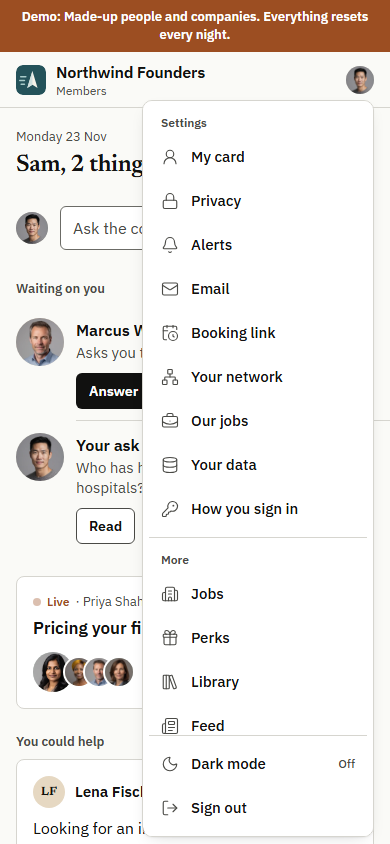
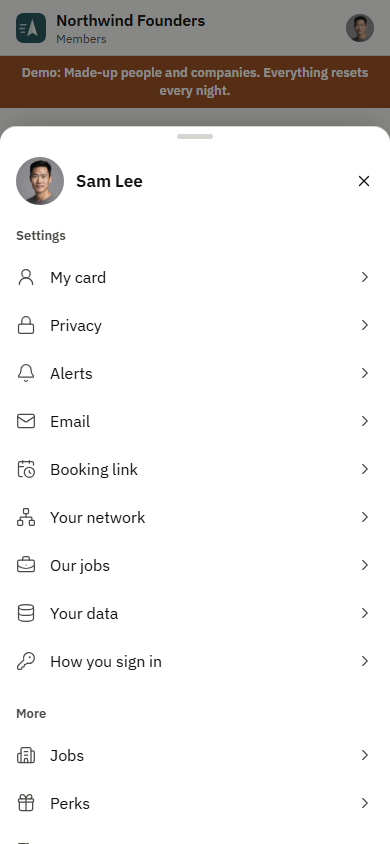
ui-polish part 6: no second status-bar gap under the demo band in the app; tour rebuilt; the verifier's last re-checks

diff --git a/src/modules/voice/components/voice.css b/src/modules/voice/components/voice.css
@@ -63,6 +63,9 @@
 @media (max-width:999.98px){
   .vr-header{position:sticky;top:0;z-index:40;min-height:calc(52px + var(--sat));margin:-16px -16px 4px;padding:var(--sat) 6px 0 4px;background:var(--paper)}
   .vr-header-end{margin-right:0}
+  /* In the app, the demo band above it already clears the status bar (frame.css): no second gap. The room page in the
+     app is short (the room plays in the app's own sheet), so it doesn't scroll under the status bar. */
+  html[data-app]:has(.fh-app .fh-demo-bar) .vr-header{min-height:52px;padding-top:0}
 }
 
 .vr-title-block{margin:8px 0 4px}

diff --git a/.ai/features/ui-polish/reports/part6/verification.md b/.ai/features/ui-polish/reports/part6/verification.md
@@ -6,7 +6,8 @@ preview. Demo people only: Sam Lee (member), Maya Ortiz (admin, host). Chromium 
 1x, viewport-sized. Scripts: `.ai/tmp/verify-p6/` (not committed).
 
 **Overall, first pass: FAIL** (three defects). **Re-check after the repairs (commit 612b2206): PASS. Re-check after
-the rebase onto Part 7's native tab bar (head 67a8e68c): PASS.** All three
+the rebase onto Part 7's native tab bar (head 67a8e68c): PASS. Re-check after Part 2 (head 982ce3e1): PASS (its one
+new minor defect, demo mode in the store app, fixed and re-checked).** All three
 defects and the smaller ones I re-tested are fixed, and nothing new broke. The parts that need a real phone or Part 3
 are still NOT RUN. The rows below are the first pass; "Re-check" at the end replaces rows 1, 8 and 10 and defects 1–5
 and 7.
@@ -119,6 +120,50 @@ Notes:
   one. I didn't re-run 360 and 300 in the app.
 - Inside each tab's page, the site's own tab bar still has `display:grid` under the native bar. The native bar covers it
   exactly (788–844), so nothing shows twice. Whether it should be hidden is Part 7's call.
+
+## Re-check after Part 2 (head 982ce3e1)
+
+Main now has Part 2: the frame, the menu sheet, no phone footer, the demo band under the top bar, and 16 px of top
+padding on the page area. `.next` was rebuilt and `mobile/dist-web` is current. I ran it in the foreground and stopped
+every server and browser. Scripts: `.ai/tmp/verify-p6/recheck3-web.mjs` and `recheck3-app.mjs`.
+
+| Item | Result | Measured | Pictures |
+|---|---|---|---|
+| Check 10, the outline | PASS (an exact match) | Rooms tapped from Today, 390, with the page held back. Outline against the page: title (16,125) 82×34 on both, the line under it (16,166) 358×26 on both, "Live now" (16,212) 358×18 on both, first card (16,238) 358×132 on both, and the rows inside the card at 255 / 281 / 313 on both. Only the button's width differs (112 against 106), with both right edges at 374. I can't reproduce Part 2's "about 34 px" note on this head. 34 px is the demo band's height on wide screens, so the note was probably taken against the old page or with the band in the way. | after-rooms-outline-390 |
+| The web room at 390 | PASS | Plain browser: the demo band is at 0–52 and the room's header at 52–104, so no gap, no overlap and no 4 px overshoot. Rooms 83×44, Leave 64×44, More 44×44. Title at y 112, the line under it at 144, bar 88 px at 756, 4 columns, no tab bar, no community bar, no footer. These are the same numbers as before. With --sat 47 / --sab 34: header 52–151 (99 px), its row at 103, bar 722–810. On a short screen, scrolled, the header stays at y 0 (row at 4 plain, at 51 with --sat 47). There is no `.fh-back` or other "Back" control on the room page, in a plain browser or in the app. | after-room-390, after-room-390-insets |
+| In the app, the room page under the sheet | PASS, except the defect below | With html[data-app] and insets 0: band 0–52, header 52–104, and no stray back button from Part 2's rules. | after-app-mini-roompage-390 |
+| Check 1, quick | PASS | 390: Start a room 106×36 on the title's row, card 358×132 with an 8 px radius, a 17 px/600 title, faces 40/28/28/28, Join 54×36, Room alerts the last row, no footer, no sideways scroll. Tapping a face joins. 1280: 2 cards in 2 columns, 464 px each. | after-rooms-390, after-rooms-1280 |
+| Checks 5 and 8, quick (web preview) | PASS | On Today the mini bar is at 732–788 and the native tab bar at 788–844, so there is no gap. The main control and Leave are 44×44. The avatar menu is now a Sheet: while it is open, html[data-sheet-open] is set and both the mini bar and the native tab bar hide. After Escape, or a tap outside, both come back. Leave from the bar removes it. | after-app-mini-today-390, after-app-mini-menu-390 |
+| Tests | PASS | `pnpm lint` (0 errors, the same old warning), `pnpm typecheck`, and the voice + shell + architecture tests (33 files, 818 tests). |
+
+**New minor defect (demo mode, store app only): a status-bar-sized gap above the room's header.**
+1. Run the store app's web preview in demo mode.
+2. Join a room and minimise it, so the room page shows under the sheet.
+3. On the page's `<html>`, set `--sat: 47px; --sab: 34px` to stand in for a phone's status bar.
+
+Result: the demo band grows to 0–99 because, for an own-header page in the app, it already pads `8px + var(--sat)`. The
+room's header then sits at 99–198 and adds `var(--sat)` again, so its row starts at y 150. That leaves a 47 px blank
+strip between the band and "‹ Rooms" (after-app-roompage-sat47-390). Expected: the header's row sits right under the
+band. It still needs the status-bar padding once it sticks at the top after the band has scrolled away.
+
+The plain browser isn't affected (no band padding there), and neither is a community outside demo mode (no band). One
+possible fix: when the band is present in the app, drop the header's `--sat` padding while it isn't stuck. Another:
+let the band stop carrying `--sat` on own-header pages and let the header carry it, with the band inside the header's
+sticky area or the header's sticky top set to the band's foot.
+
+**Re-check of that defect, with the fix** (voice.css, under 1000 px:
+`html[data-app]:has(.fh-app .fh-demo-bar) .vr-header{min-height:52px;padding-top:0}`; `.next` rebuilt): **PASS.**
+I re-ran the same steps in the web preview: room page after minimising, with --sat 47px on html.
+- 390×844: band 0–99, header 99–151, the "‹ Rooms" row at 103–147, More 44×44 at 103–147, title at 159. The strip is
+  gone. With insets 0: band 0–52, header 52–104, row at 56–100.
+- 300×570: the same, band 0–99, header 99–151, row at 103–147.
+- In the app the room page doesn't scroll at 390×844 or 300×570 (scrollHeight minus the window height is 0), so the
+  header never sticks under the status bar without its padding. In the app this page has no Leave in its header (Leave
+  is on the sheet and the mini bar), so only More is measured.
+- Plain browser at 390 (no data-app), unchanged: band 0–52, header 52–104 (padding 0), Rooms 83×44, Leave 64×44, More
+  44×44, all at 56–100, title at 112, bar at 756–844. With --sat 47: header 52–151 (99 px, padding 47), row at
+  103–147, bar at 722–810. Scrolled on a short screen, the header is stuck at 0–99 with its row at 51–95.
+- after-app-roompage-sat47-390.png was replaced and now shows the row right under the band.
 
 ## Undo after 4 s instead of 2.5 s
 4 s (about 4.5 s measured) is the right call. With a 44 px Undo target, 2.5 s is too short to read the line and reach
